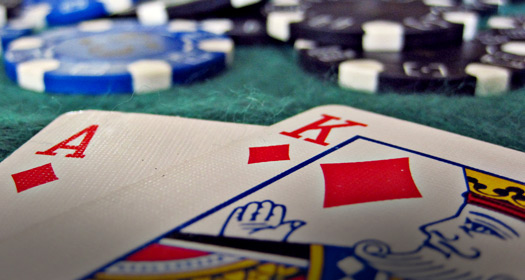
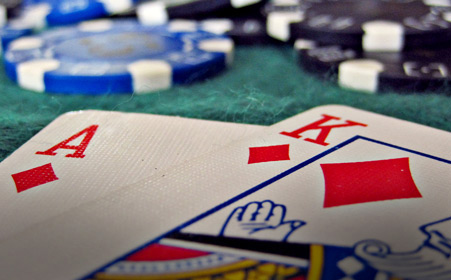
Fixing Appearance of Images

diff --git a/index.php b/index.php
@@ -14,8 +14,8 @@
   ================================================== -->
 	<meta charset="utf-8">
 	<title>Eric Berg // Web Developer</title>
-	<meta name="description" content="">
-	<meta name="author" content="">
+	<meta name="description" content="This is the professional site of Eric Berg, where you can find out what he's been workin on lately.">
+	<meta name="author" content="Eric Berg">
 
 	<!-- Mobile Specific Metas
   ================================================== -->
@@ -49,8 +49,6 @@
 	<!-- Delete everything in this .container and get started on your own site! -->
 
 	<div class="header">
-		<script type="text/javascript" src="js/underscore.js"></script>
-		<script type="text/javascript" src="js/backbone.js"></script>
 		<div class="sixteen columns">
 		<div class="container">
 		<div class="logo" style="margin-top:52px;float:left;margin-left: 5px;margin-right:25px;"><img src='images/logo.png' width='72px' height='86px'/></div>
@@ -96,7 +94,7 @@
 		</div>
 	<div class="six columns">
 			<p>It's good to be bold. Yes, it takes some confidence to put your images up in large format for all of the internet to see... but I definitely think the payoff is worth it. This is a website I created for just that purpose: to display images as large as possible.</p>
-		    <p>On the more technical side of things, I used this project as an opportunity get a better understanding of how the model-view-controller (MVC) pattern works. There's no better way to understand something than by building it from scratch, and after having completed this project I'm feeling confident about using MVC's.</p>
+		    <p>On the more technical side of things, I used this project as an opportunity get a better understanding of the model-view-controller (MVC) pattern. There's no better way to understand something than by building it from scratch, and after having completed this project I'm feeling much more knowledgable about the inner workings of MVC's.</p>
 	</div>
 		<div class="seven columns"><div style="background-image:url('/images/folio.jpg');height:230px;background-repeat:no-repeat;background-size: cover;margin-bottom:20px;"></div></div>
 
@@ -114,8 +112,8 @@
 			<p>I thought blackjack would be fun to make because it’s a classic that just about everyone knows how to play. It turned out to be very rewarding project, as well as a great way to learn some new and interesting technologies.</p>
 		    <p>The game has positions for up to six players, and there is a card counting button as a bonus feature. You can turn the odds in your favor by modifying your play based upon the count. The live site and source code are also available, if you’re into that sort of thing.</p>
 		</div>
-		<div class="six columns "><div style="background-image:url('/images/blackjack.jpg');height:200px;background-repeat:no-repeat;background-position:-200px 0px;margin-bottom:20px;"></div></div>
-		<div class="two columns"><ul class="square" style="width:100%;float:left;"><li>jQuery</li><li>Node.js</li><li>Socket.io</li><li>Twitter Bootstrap</li></ul></div>
+		<div class="six columns"><div style="margin-bottom:20px;"><img src="/images/blackjack.jpg" width="100%"/></div></div>
+		<div class="two columns"><ul class="square" style="float:left;"><li>jQuery</li><li>Node.js</li><li>Socket.io</li><li>Twitter Bootstrap</li></ul></div>
 		</div><!-- container -->
 
 		<div class="container" style="margin-bottom:60px;">
@@ -143,15 +141,16 @@
 			<span style="margin: 5px;">art website</span>
 			</h4>
 		</div>
-<div class="five columns">
+	<div class="five columns">
 			<p>Sometimes I paint in my spare time. For a time, I was contemplating the idea of starting a business producing and selling abstract paintings. Though I eventually realized that production-style art might actually be the least appealing avenue for my creativity, the experience drove me to create a full Joomla! website.</p>
 			<p>My time on this project was split evenly between front-end template design, modifying the Joomla! content management system to suit my needs, and writing articles about art.</p>
 		</div>
-		<div class="six columns"><div style="background-image:url('/images/aura.jpg');height:230px;background-repeat:no-repeat;background-size: cover;margin-bottom:20px;"></div></div>
+		<div class="six columns"><div style="margin-bottom:20px;"><img src="/images/aura.jpg" width="100%"/></div></div>
 
 		<div class="two columns"><ul class="square" style="width:100%;float:left;"><li>PHP</li><li>Joomla! CMS</li><li>MVC</li></ul></div>
 		</div><!-- container -->
-<!-- End Document
-================================================== -->
+	<script type="text/javascript" src="js/underscore.js"></script>
+	<script type="text/javascript" src="js/backbone.js"></script>
+<!-- End Document ================================================== -->
 </body>
 </html>
